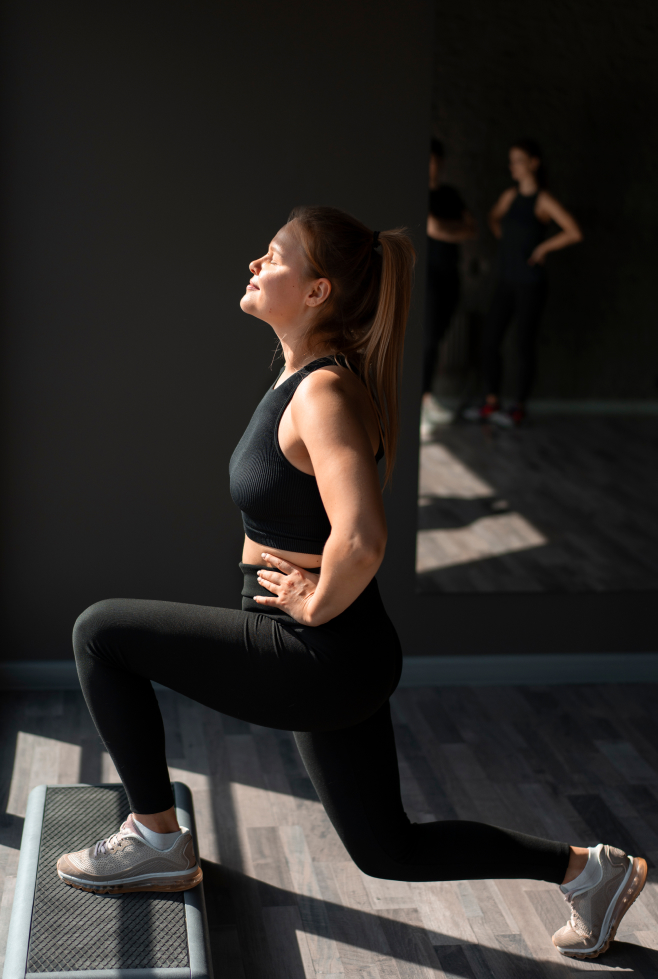
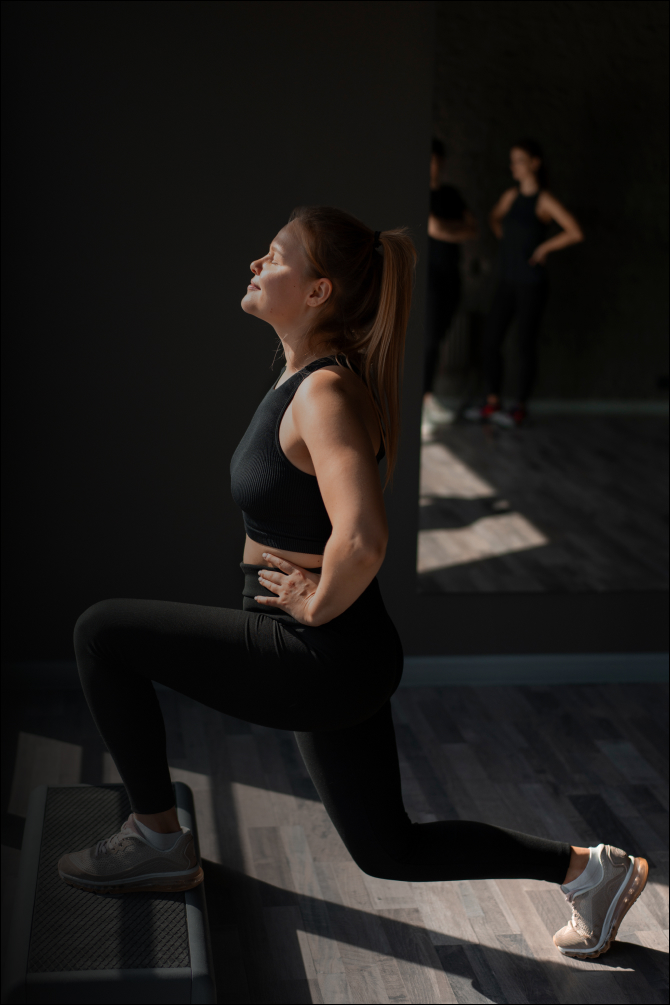
add

diff --git a/src/pages/WelcomePage/WelcomPage.module.css b/src/pages/WelcomePage/WelcomPage.module.css
@@ -1,27 +1,111 @@
-.section {
-  @media screen and (min-width: 768px) {
-    display: flex;
+.background {
+  position: absolute;
+  top: 241px;
+  left: 77px;
+  width: 446px;
+  height: 821px;
+  background: linear-gradient(170deg, #040404 14.75%, rgba(4, 4, 4, 0) 52.97%),
+    linear-gradient(73deg, #040404 6.11%, rgba(4, 4, 4, 0) 66.68%),
+    url("../../images/background/bg-img-mobile-1x.jpg");
+  background-repeat: no-repeat;
+}
 
-    /* margin: 0 32px; */
-  }
-  @media screen and (min-width: 1440px) {
-    /* max-width: 1400px; */
-    margin: 0 auto;
-    width: 1440px;
-    background: linear-gradient(80deg, #040404 -2.45%, rgba(4, 4, 4, 0) 68.17%),
-      url("../../images/background/bg-img-desktop-1x.jpg"),
-      0px -48px / 94.516% 105.335% no-repeat;
+@media (min-device-pixel-ratio: 2),
+  (min-resolution: 192dpi),
+  (min-resolution: 2dppx) {
+  .backgroundContainer::after {
+    background-image: url('../../images/background/bg-img-mobile-2x.jpg');
   }
 }
 
-.wrapper {
+
+
+@media (min-width: 375px) {
+  .container {
+    width: 365px;
+  }
+}
+
+@media (min-width: 768px) {
+  .background {
+    top: 241px;
+    left: 77px;
+    width: 131px;
+    height: 331px;
+    /* width: 670px;
+  height: 1005px; */
+    background: linear-gradient(170deg, #040404 14.75%, rgba(4, 4, 4, 0) 52.97%),
+      linear-gradient(73deg, #040404 6.11%, rgba(4, 4, 4, 0) 66.68%),
+      url("../../images/background/bg-img-tablet-1x.jpg");
+    /* lightgray 50% / cover no-repeat */
+    /* background: linear-gradient(80deg, #040404 -2.45%, rgba(4, 4, 4, 0) 68.17%),
+    url('../../images/background/bg-img-desktop-1x.jpg'); */
+    background-repeat: no-repeat;
+  }
+
+  @media (min-device-pixel-ratio: 2),
+    (min-resolution: 192dpi),
+    (min-resolution: 2dppx) {
+    .backgroundContainer::after {
+      background-image: url("../../images/background/bg-img-mobile-2x.jpg");
+    }
+  }
+}
+
+@media (min-width: 1440px) {
+  .background {
+    position: absolute;
+    top: 241px;
+    left: 77px;
+    width: 670px;
+    height: 669px;
+    /* width: 670px;
+  height: 1005px; */
+    background: linear-gradient(170deg, #040404 14.75%, rgba(4, 4, 4, 0) 52.97%),
+      linear-gradient(73deg, #040404 6.11%, rgba(4, 4, 4, 0) 66.68%),
+      url("../../images/background/bg-img-desktop-1x.jpg");
+    /* lightgray 50% / cover no-repeat */
+    /* background: linear-gradient(80deg, #040404 -2.45%, rgba(4, 4, 4, 0) 68.17%),
+    url('../../images/background/bg-img-desktop-1x.jpg'); */
+    background-repeat: no-repeat;
+  }
+
+  @media (min-device-pixel-ratio: 2),
+    (min-resolution: 192dpi),
+    (min-resolution: 2dppx) {
+    .backgroundContainer::after {
+      background-image: url("../../images/background/bg-img-mobile-2x.jpg");
+    }
+  }
+}
+
+.section {
+  position: relative;
+  overflow: hidden;
+  margin: 0 auto;
+  width: 375px;
+  min-height: 812px;
+}
+
+@media (min-width: 768px) {
+  .section {
+    min-height: 812px;
+  }
+}
+
+@media (min-width: 1440px) {
+  .section {
+    width: 1440px;
+  }
+}
+/* .wrapper {
   margin-top: 32px;
 }
 
 .logo {
   margin-top: 32px;
-}
-
+} */
+/* 
 .title {
   padding-top: 90px;
   font-size: 38px;
@@ -59,4 +143,4 @@
   left: 121px;
   width: 185px;
   height: 67px;
-}
+} */

diff --git a/src/components/BgImageWelcomePage/BgImageWelcomePage.module.css b/src/components/BgImageWelcomePage/BgImageWelcomePage.module.css
@@ -1,58 +1,57 @@
-.bgImg {
-  background-image: url("../../images/bg-img-mobile-1x.jpg");
-
+.bgImg {  
+  position: absolute;
+  top: 241px;
+  left: 77px;
+  width: 446px;
+  height: 669px;
+  background-image: var(--background-linear-gradient), url("../../images/background/bg-img-mobile-1x.jpg");
   background-repeat: no-repeat;
-  background-position: right;
-  background-size: contain;
-  width: 298px;
-
-  @media (min-device-pixel-ratio: 2),
-    (-webkit-min-device-pixel-ratio: 2),
-    (min-resolution: 192dpi),
-    (min-resolution: 2dppx) {
-    background-image: linear-gradient(
-        168deg,
-        #040404 14.75%,
-        rgba(4, 4, 4, 0) 52.97%
-      ),
-      linear-gradient(73deg, #040404 6.11%, rgba(4, 4, 4, 0) 66.68%),
-      url("../../images/bg-img-mobile-2x.jpg");
+}
+@media (min-device-pixel-ratio: 2),
+  (min-resolution: 192dpi),
+  (min-resolution: 2dppx) {
+  .backgroundContainer::after {
+    background-image: url('../../images/background/bg-img-mobile-2x.jpg');
   }
 }
 
+
+
 @media screen and (min-width: 375px) {
-  .bgImg {
+  /* .bgImg {
     background-position-y: bottom;
-  }
+  } */
 }
 
 @media screen and (min-width: 768px) {
   .bgImg {
-    background-size: 100%;
-    width: 437px;
-    background-image: url("../../images/bg-img-tablet-1x.jpg");
-    @media (min-device-pixel-ratio: 2),
-      (-webkit-min-device-pixel-ratio: 2),
-      (min-resolution: 192dpi),
-      (min-resolution: 2dppx) {
-      background-image: url("../../images/bg-img-tablet-2x.jpg");
-    }
+    top: 131px;
+    left: 331px;
+    width: 670px;
+    height: 1005px;
+    background-image: var(--background-linear-gradient), url("../../images/background/bg-img-tablet-1x.jpg");
   }
+      @media (min-device-pixel-ratio: 2),
+  (min-resolution: 192dpi),
+  (min-resolution: 2dppx) {
+  .backgroundContainer::after {
+    background-image: url('../../images/background/bg-img-tablet-2x.jpg');
+  }
+}
 }
 
 @media screen and (min-width: 1440px) {
   .bgImg {
-    background-size: 100%;
-    background-position: top right;
-    margin-top: revert-layer;
-    width: 670px;
-    background-image: url("../../images/bg-img-desktop-1x.jpg");
+    top: -152px;
+    left: 770px;
+    background-image: var(--background-linear-gradient) url("../../images/background/bg-img-tablet-1x.jpg");
+    /* background-image: url("../../images/bg-img-desktop-1x.jpg");
 
     @media (min-device-pixel-ratio: 2),
       (-webkit-min-device-pixel-ratio: 2),
       (min-resolution: 192dpi),
       (min-resolution: 2dppx) {
       background-image: url("../../images/bg-img-desktop-2x.jpg");
-    }
+    } */
   }
 }

diff --git a/src/pages/WelcomePage/WelcomePage.jsx b/src/pages/WelcomePage/WelcomePage.jsx
@@ -2,8 +2,8 @@ import { Link } from "react-router-dom";
 
 import Button from "../../components/Button/Button";
 import Logo from "../../components/Logo/Logo";
-import sprite from "../../images/svg/sprite.svg";
-// import BgImageWelcomePage from "../../components/BgImageWelcomePage/BgImageWelcomePage";
+
+import BgImageWelcomePage from "../../components/BgImageWelcomePage/BgImageWelcomePage";
 import css from "./WelcomPage.module.css";
 import Container from "../../components/Container/Container";
 
@@ -11,15 +11,15 @@ const WelcomePage = () => {
   return (
     <section className={css.section}>
       <Container>
-        <div className={css.wrapper}>
-          <Logo />{" "}
-          <h1 className={css.title}>
-            Transforming your body shape with Power Pulse
-          </h1>
-          {/* <svg className={css.svg}>
+        {/* <div className={css.wrapper}> */}
+        <Logo />{" "}
+        {/* <h1 className={css.title}>
+          Transforming your body shape with Power Pulse
+        </h1> */}
+        {/* <svg className={css.svg}>
             <use href={`${sprite}#icon-line`} />
           </svg> */}
-          {/* <div className={css.buttonWrapper}>
+        {/* <div className={css.buttonWrapper}>
             <Link className={css.link} to="/signup">
               <Button type="submit" text="Sign Up" />
             </Link>
@@ -27,10 +27,11 @@ const WelcomePage = () => {
               <Button type="submit" text="Sign In" />
             </Link>
           </div> */}
-        </div>
+        {/* </div> */}
       </Container>
 
-      {/* <BgImageWelcomePage></BgImageWelcomePage> */}
+      <BgImageWelcomePage/>
+
     </section>
   );
 };

diff --git a/src/components/ContainerBackground/ContainerBackground.module.css b/src/components/ContainerBackground/ContainerBackground.module.css
@@ -1,7 +1,8 @@
 .backgroundContainer {
   margin: 0 auto;
   width: 1440px;
-  background: linear-gradient(80deg, #040404 -2.45%, rgba(4, 4, 4, 0.00) 68.17%), url('../../images/background/bg-img-desktop-1x.jpg'),  0px -48px / 94.516% 105.335% no-repeat;
+  height: 800px;
+  background: linear-gradient(80deg, #040404 -2.45%, rgba(4, 4, 4, 0.00) 68.17%), url('../../images/background/bg-img-desktop-1x.jpg'),  0px -48px / 94.516% 105.335%;
   /* background-image: 
   
   linear-gradient(
@@ -12,7 +13,7 @@
     linear-gradient(73deg, #040404 6.11%, rgba(4, 4, 4, 0) 66.68%),
     url('../../images/background/bg-img-desktop-1x.jpg'); */
   /* background-size: cover; */
-  background-position: 963px 0px ;
+  background-position: 963px -200px ;
   background-repeat: no-repeat;
 }
 

diff --git a/src/variable.css b/src/variable.css
@@ -15,4 +15,8 @@
   --border-error: 1px solid #d80027;
   --border-solid-color: 1px solid rgba(239, 237, 232, 0.2);
   --background-avatar: rgba(48, 48, 48, 0.3);
+
+  --background-linear-gradient: linear-gradient(168deg, #040404 14.75%, rgba(4, 4, 4, 0.00) 52.97%), linear-gradient(73deg, #040404 6.11%, rgba(4, 4, 4, 0.00) 66.68%);
+  --desk-background-linear-gradient:linear-gradient(80deg, #040404 -2.45%, rgba(4, 4, 4, 0.00) 68.17%),
+
 }

diff --git a/src/components/Layout/Layout.jsx b/src/components/Layout/Layout.jsx
@@ -10,9 +10,9 @@ import css from './Layout.module.css'
 export default function Layout() {
   return (
     <>
-      <Container>
+      {/* <Container>
         <Header />
-      </Container>
+      </Container> */}
       <main>
         {/* <section className={css.section}> */}
           {/* <Container> */}

diff --git a/src/components/BgImageWelcomePage/BgImageWelcomePage.jsx b/src/components/BgImageWelcomePage/BgImageWelcomePage.jsx
@@ -1,7 +1,7 @@
 import css from "./BgImageWelcomePage.module.css";
 
-const BgImageWelcomePage = ({ children }) => {
-  return <div className={css.bgImg}>{children}</div>;
+const BgImageWelcomePage = () => {
+  return <div className={css.bgImg}></div>;
 };
 
 export default BgImageWelcomePage;

diff --git a/src/utils/const.js b/src/utils/const.js
@@ -13,8 +13,6 @@ export const WelcomePage_ROUTE = "/";
 
 
 
-
-
 export const BACKEND_API_BASE_URL = "http://localhost:5000/api";
 
 export const BACKEND_SIGN_UP_URL = "/api/users/register";
